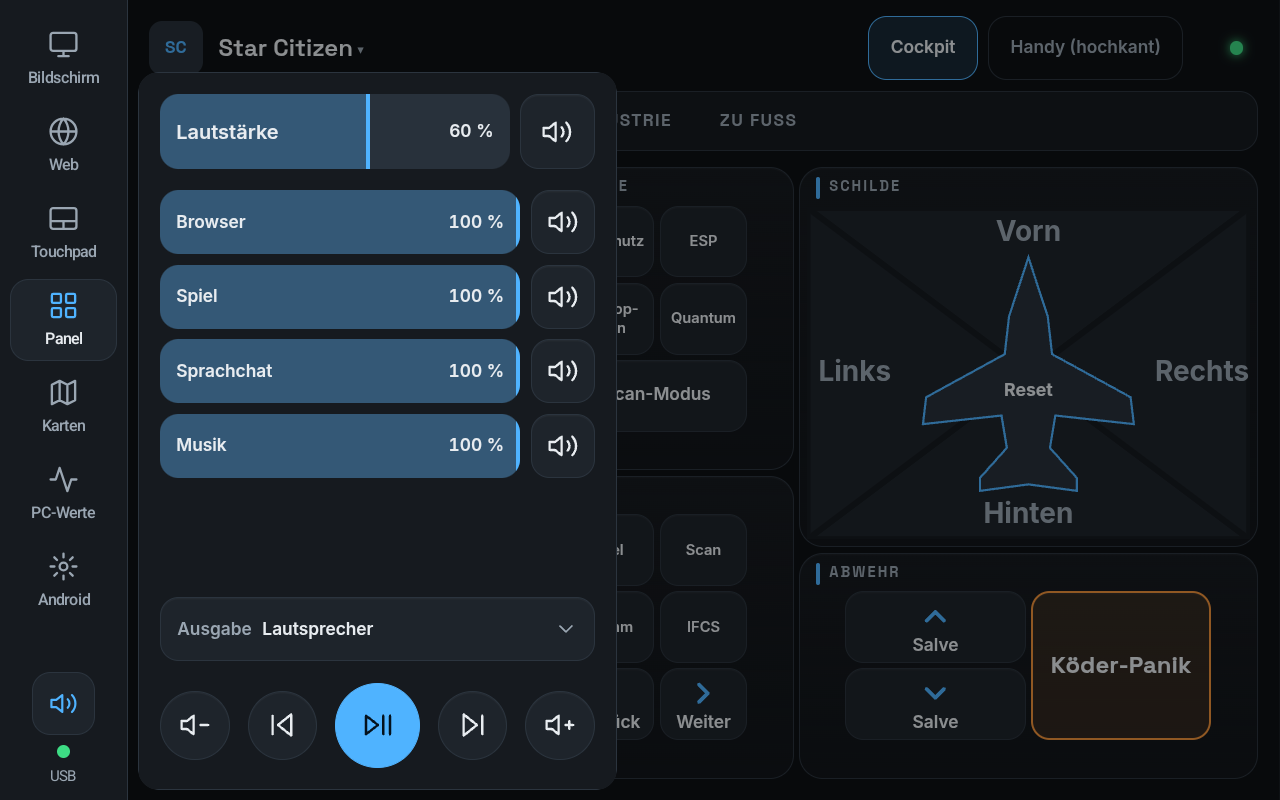
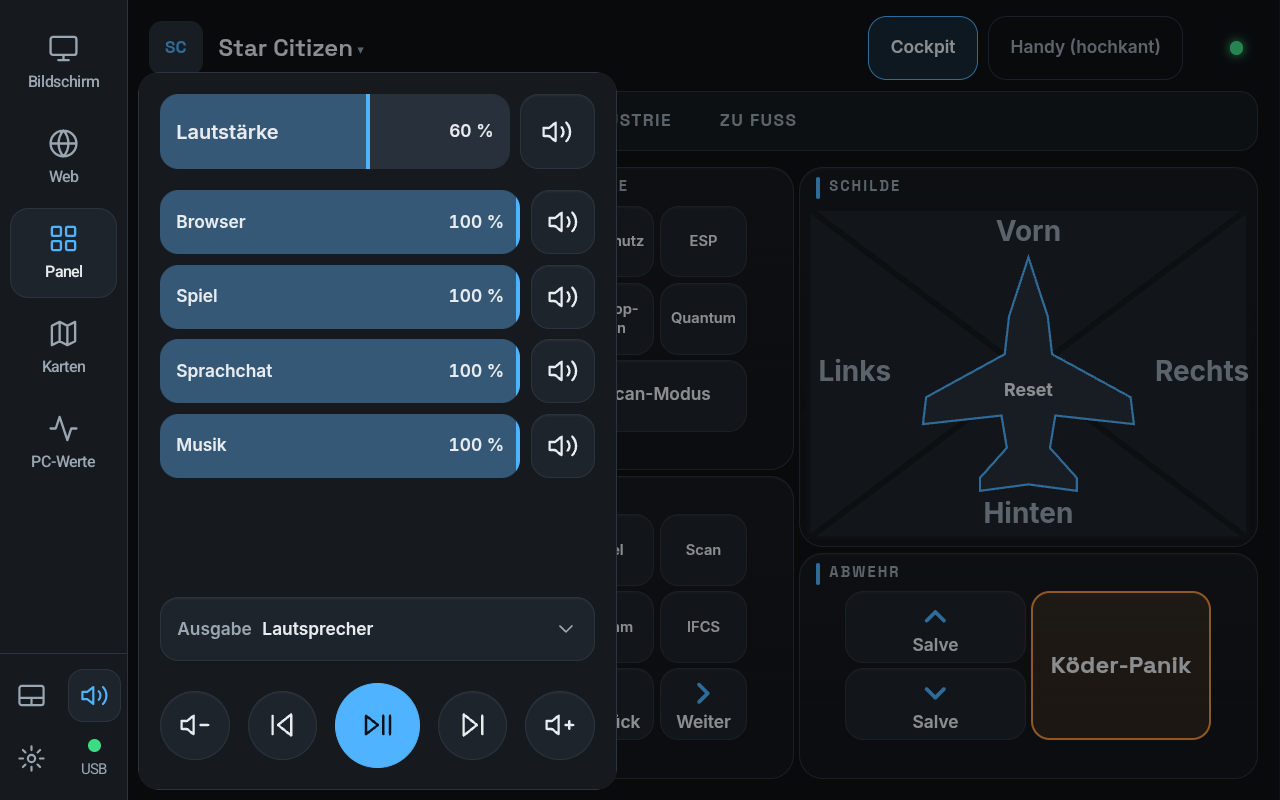
Leiste in zwei Gruppen: Touchpad und Android als kleine Symbole
- launcher.json "small": true: Kachel nur als Symbol unten neben Ton und
  Verbindungsanzeige (2 Spalten zu 48 dp, langes Drücken zeigt den Namen).
- Große Kacheln wieder 68 dp, bei vielen bis 62 dp.
- Hochkant bleibt mit wenigen Kacheln alles groß.

Am Tablet (quer, simuliert hochkant und Handy quer) und am Handy geprüft.

diff --git a/android/src/app/tabletdeck/launcher/HomeActivity.java b/android/src/app/tabletdeck/launcher/HomeActivity.java
@@ -133,7 +133,7 @@ public class HomeActivity extends Activity {
     static class Tile {
         String id, title, type, path, pkg, icon;
         int port;
-        boolean start;
+        boolean start, small;
 
         /**
          * null, wenn ungültig. Web-Kacheln: Port eines Dienstes am PC (Standard Hub) und Pfad, keine
@@ -149,6 +149,7 @@ public class HomeActivity extends Activity {
             t.icon = o.optString("icon", "");
             t.port = o.optInt("port", HUB_PORT);
             t.start = o.optBoolean("start", false);
+            t.small = o.optBoolean("small", false);   // nur Symbol, unten in der Leiste
             if (t.id.isEmpty()) return null;
             if (t.type.equals("web"))
                 return PATH_OK.matcher(t.path).matches() && !t.path.contains("..") && t.port >= 1024
@@ -463,14 +464,12 @@ public class HomeActivity extends Activity {
         if (bottomBar) {
             root.setOrientation(LinearLayout.VERTICAL);
             bar.setOrientation(LinearLayout.HORIZONTAL);
-            bar.setPadding(dp(8), dp(6), dp(8), dp(6));
             root.addView(content, new LinearLayout.LayoutParams(-1, 0, 1f));
             root.addView(railEdge, new LinearLayout.LayoutParams(-1, 1));
             root.addView(bar, new LinearLayout.LayoutParams(-1, dp(76)));
         } else {
             root.setOrientation(LinearLayout.HORIZONTAL);
             bar.setOrientation(LinearLayout.VERTICAL);
-            bar.setPadding(dp(8), dp(14), dp(8), dp(12));
             root.addView(bar, new LinearLayout.LayoutParams(dp(96), -1));
             root.addView(railEdge, new LinearLayout.LayoutParams(1, -1));
             root.addView(content, new LinearLayout.LayoutParams(0, -1, 1f));
@@ -729,11 +728,7 @@ public class HomeActivity extends Activity {
         soundIcon.setImageResource(muted ? R.drawable.ic_volume_off : R.drawable.ic_volume);
         soundIcon.setImageTintList(android.content.res.ColorStateList.valueOf(muted ? BAD : open ? ACCENT : DIM));
         soundButton.setContentDescription("Ton" + (volume < 0 ? "" : muted ? ", stumm" : ", " + volume + " %"));
-        GradientDrawable bg = new GradientDrawable();
-        bg.setColor(open ? S2 : 0);
-        bg.setCornerRadius(dp(14));
-        bg.setStroke(1, LINE);
-        soundButton.setBackground(bg);
+        soundButton.setBackground(open ? activeBg(true) : null);
     }
 
     void removeWebView(String id) {
@@ -837,11 +832,20 @@ public class HomeActivity extends Activity {
         }
     }
 
+    final List<View> tileViews = new ArrayList<>();   // große Kacheln und kleine Symbole, Tag = Kachel-ID
+    static final int SMALL = 48;                      // kleine Symbole (dp): Tippfläche, sichtbar hervorgehoben 40
+
     void buildBar() {
         bar.removeAllViews();
-        // Kacheln scrollbar (viele Kacheln), Verbindungsanzeige bleibt unten bzw. rechts sichtbar
+        tileViews.clear();
+        List<Tile> big = new ArrayList<>(), small = new ArrayList<>();
+        boolean shrink = !bottomBar || !allFitBelow();
+        for (Tile t : tiles) (t.small && shrink ? small : big).add(t);
+
+        // Große Kacheln (scrollbar), darunter bzw. rechts die kleinen Symbole, Ton und Verbindungsanzeige
         railTiles = new LinearLayout(this);
         if (bottomBar) {
+            bar.setPadding(dp(8), dp(6), dp(8), dp(6));
             android.widget.HorizontalScrollView sv = new android.widget.HorizontalScrollView(this);
             sv.setHorizontalScrollBarEnabled(false);
             sv.setFillViewport(true);
@@ -849,54 +853,128 @@ public class HomeActivity extends Activity {
             sv.addView(railTiles, new FrameLayout.LayoutParams(-2, -1));
             bar.addView(sv, new LinearLayout.LayoutParams(0, -1, 1f));
         } else {
+            bar.setPadding(0, dp(14), 0, dp(8));   // unten volle Breite: zwei Symbole zu je 48 dp
             android.widget.ScrollView sv = new android.widget.ScrollView(this);
             sv.setVerticalScrollBarEnabled(false);
             railTiles.setOrientation(LinearLayout.VERTICAL);
+            railTiles.setPadding(dp(8), 0, dp(8), 0);
             sv.addView(railTiles, new FrameLayout.LayoutParams(-1, -2));
             bar.addView(sv, new LinearLayout.LayoutParams(-1, 0, 1f));
         }
-        for (Tile t : tiles) {
-            LinearLayout b = new LinearLayout(this);
-            b.setOrientation(LinearLayout.VERTICAL);
-            b.setGravity(Gravity.CENTER);
-            b.setTag(t.id);
-            b.setContentDescription(t.title);
-            android.widget.ImageView ic = new android.widget.ImageView(this);
-            ic.setImageResource(iconFor(t));
-            b.addView(ic, new LinearLayout.LayoutParams(dp(24), dp(24)));
-            TextView l = new TextView(this);
-            l.setText(t.title);
-            l.setGravity(Gravity.CENTER);
-            l.setSingleLine(true);
-            l.setEllipsize(android.text.TextUtils.TruncateAt.END);
-            l.setTextSize(TypedValue.COMPLEX_UNIT_SP, 12);
-            l.setTypeface(android.graphics.Typeface.create("sans-serif-medium", android.graphics.Typeface.NORMAL));
-            LinearLayout.LayoutParams lp = new LinearLayout.LayoutParams(-1, -2);
-            lp.topMargin = dp(5);
-            b.addView(l, lp);
-            b.setOnClickListener(v -> setMode(t.id));
-            LinearLayout.LayoutParams bp;
-            if (bottomBar) {
-                bp = new LinearLayout.LayoutParams(dp(84), -1);
-                bp.rightMargin = dp(4);
-            } else {
-                bp = new LinearLayout.LayoutParams(-1, dp(62));   // 7 Kacheln + Ton + Anzeige ohne Scrollen
-                bp.bottomMargin = dp(4);
+
+        List<View> tools = new ArrayList<>();
+        for (Tile t : small) tools.add(smallTile(t));
+        // Ton gehört neben das erste Symbol (Touchpad): beides bedient den PC
+        tools.add(Math.min(1, tools.size()), buildSoundButton());
+        View status = buildStatus();
+        int tileH = 68;
+        if (bottomBar) {
+            for (View v : tools) {
+                LinearLayout.LayoutParams lp = new LinearLayout.LayoutParams(dp(SMALL), dp(SMALL));
+                lp.gravity = Gravity.CENTER_VERTICAL;
+                bar.addView(v, lp);
             }
-            railTiles.addView(b, bp);
+            LinearLayout.LayoutParams lp = new LinearLayout.LayoutParams(dp(64), -1);
+            lp.leftMargin = dp(4);
+            bar.addView(status, lp);
+        } else {
+            tools.add(status);
+            View line = new View(this);
+            line.setBackgroundColor(LINE);
+            LinearLayout.LayoutParams dl = new LinearLayout.LayoutParams(-1, 1);
+            dl.topMargin = dp(4);
+            dl.bottomMargin = dp(8);
+            bar.addView(line, dl);
+            LinearLayout row = null;
+            for (int i = 0; i < tools.size(); i++) {
+                if (i % 2 == 0) {
+                    row = new LinearLayout(this);
+                    row.setGravity(Gravity.CENTER_HORIZONTAL);
+                    bar.addView(row, new LinearLayout.LayoutParams(-1, -2));
+                }
+                row.addView(tools.get(i), new LinearLayout.LayoutParams(dp(SMALL), dp(SMALL)));
+            }
+            // Platz für alle großen Kacheln ohne Scrollen: bei vielen etwas niedriger, nie unter 62 dp
+            int rows = (tools.size() + 1) / 2;
+            int free = getResources().getConfiguration().screenHeightDp - 14 - 8 - 13 - rows * SMALL;
+            tileH = Math.max(62, Math.min(68, free / Math.max(1, big.size()) - 4));
         }
-        // Ton: kleiner Knopf statt Kachel, öffnet das Feld über der aktuellen Ansicht
-        FrameLayout sb = new FrameLayout(this);
-        soundIcon = new android.widget.ImageView(this);
-        sb.addView(soundIcon, new FrameLayout.LayoutParams(dp(22), dp(22), Gravity.CENTER));
-        sb.setOnClickListener(v -> toggleSound());
-        soundButton = sb;
-        LinearLayout.LayoutParams sbp = new LinearLayout.LayoutParams(dp(48), dp(48));
-        sbp.gravity = bottomBar ? Gravity.CENTER_VERTICAL : Gravity.CENTER_HORIZONTAL;
-        if (bottomBar) sbp.leftMargin = dp(8);
-        else sbp.topMargin = dp(4);
-        bar.addView(sb, sbp);
+        for (Tile t : big) railTiles.addView(bigTile(t), bigParams(tileH));
+        setStatus(connected);
+        updateBar();
+    }
+
+    /** Hochkant: passen alle Kacheln groß nebeneinander (wenige Kacheln), bleibt alles groß. */
+    boolean allFitBelow() {
+        int w = getResources().getConfiguration().screenWidthDp - 16 - SMALL - 68;
+        return tiles.size() * 88 <= w;
+    }
+
+    LinearLayout bigTile(Tile t) {
+        LinearLayout b = new LinearLayout(this);
+        b.setOrientation(LinearLayout.VERTICAL);
+        b.setGravity(Gravity.CENTER);
+        b.setTag(t.id);
+        b.setContentDescription(t.title);
+        android.widget.ImageView ic = new android.widget.ImageView(this);
+        ic.setImageResource(iconFor(t));
+        b.addView(ic, new LinearLayout.LayoutParams(dp(24), dp(24)));
+        TextView l = new TextView(this);
+        l.setText(t.title);
+        l.setGravity(Gravity.CENTER);
+        l.setSingleLine(true);
+        l.setEllipsize(android.text.TextUtils.TruncateAt.END);
+        l.setTextSize(TypedValue.COMPLEX_UNIT_SP, 12);
+        l.setTypeface(android.graphics.Typeface.create("sans-serif-medium", android.graphics.Typeface.NORMAL));
+        LinearLayout.LayoutParams lp = new LinearLayout.LayoutParams(-1, -2);
+        lp.topMargin = dp(5);
+        b.addView(l, lp);
+        b.setOnClickListener(v -> setMode(t.id));
+        tileViews.add(b);
+        return b;
+    }
+
+    LinearLayout.LayoutParams bigParams(int height) {
+        LinearLayout.LayoutParams p;
+        if (bottomBar) {
+            p = new LinearLayout.LayoutParams(dp(84), -1);
+            p.rightMargin = dp(4);
+        } else {
+            p = new LinearLayout.LayoutParams(-1, dp(height));
+            p.bottomMargin = dp(4);
+        }
+        return p;
+    }
+
+    /** Symbol ohne Beschriftung; langes Drücken zeigt den Namen. */
+    FrameLayout smallButton(String name, View.OnClickListener l) {
+        FrameLayout b = new FrameLayout(this);
+        b.setContentDescription(name);
+        b.setTooltipText(name);
+        b.addView(new android.widget.ImageView(this), new FrameLayout.LayoutParams(dp(22), dp(22), Gravity.CENTER));
+        b.setOnClickListener(l);
+        return b;
+    }
+
+    /** Kachel als kleines Symbol (launcher.json "small": true). */
+    FrameLayout smallTile(Tile t) {
+        FrameLayout b = smallButton(t.title, v -> setMode(t.id));
+        b.setTag(t.id);
+        ((android.widget.ImageView) b.getChildAt(0)).setImageResource(iconFor(t));
+        tileViews.add(b);
+        return b;
+    }
+
+    /** Ton: kleiner Knopf statt Kachel, öffnet das Feld über der aktuellen Ansicht. */
+    View buildSoundButton() {
+        FrameLayout b = smallButton("Ton", v -> toggleSound());
+        soundIcon = (android.widget.ImageView) b.getChildAt(0);
+        soundButton = b;
         updateSound();
+        return b;
+    }
+
+    View buildStatus() {
         LinearLayout st = new LinearLayout(this);
         st.setOrientation(LinearLayout.VERTICAL);
         st.setGravity(Gravity.CENTER);
@@ -906,41 +984,30 @@ public class HomeActivity extends Activity {
         statusText.setTextSize(TypedValue.COMPLEX_UNIT_SP, 11);
         statusText.setTextColor(DIM);
         statusText.setGravity(Gravity.CENTER);
+        statusText.setSingleLine(true);
         LinearLayout.LayoutParams sp = new LinearLayout.LayoutParams(-2, -2);
-        sp.topMargin = dp(6);
+        sp.topMargin = dp(5);
         st.addView(statusText, sp);
-        LinearLayout.LayoutParams stp;
-        if (bottomBar) {
-            stp = new LinearLayout.LayoutParams(dp(64), -1);
-            stp.leftMargin = dp(8);
-        } else {
-            stp = new LinearLayout.LayoutParams(-1, -2);
-            stp.topMargin = dp(8);
-        }
-        bar.addView(st, stp);
-        setStatus(connected);
-        updateBar();
+        return st;
+    }
+
+    /** Hervorhebung der aktiven Kachel; kleine Symbole nur 40 dp groß (Tippfläche bleibt 48). */
+    android.graphics.drawable.Drawable activeBg(boolean small) {
+        GradientDrawable bg = new GradientDrawable();
+        bg.setColor(S2);
+        bg.setCornerRadius(dp(small ? 12 : 14));
+        bg.setStroke(1, LINE);
+        return small ? new android.graphics.drawable.InsetDrawable(bg, dp(4)) : bg;
     }
 
     void updateBar() {
-        if (railTiles == null) return;
-        for (int i = 0; i < railTiles.getChildCount(); i++) {
-            View v = railTiles.getChildAt(i);
-            if (v.getTag() == null) continue;
-            boolean on = v.getTag().equals(mode);
-            int c = on ? ACCENT : DIM;
-            LinearLayout b = (LinearLayout) v;
-            ((android.widget.ImageView) b.getChildAt(0)).setImageTintList(android.content.res.ColorStateList.valueOf(c));
-            ((TextView) b.getChildAt(1)).setTextColor(on ? TEXT : DIM);
-            if (on) {
-                GradientDrawable bg = new GradientDrawable();
-                bg.setColor(S2);
-                bg.setCornerRadius(dp(14));
-                bg.setStroke(1, LINE);
-                v.setBackground(bg);
-            } else {
-                v.setBackground(null);
-            }
+        for (View v : tileViews) {
+            boolean on = v.getTag().equals(mode), small = v instanceof FrameLayout;
+            android.view.ViewGroup b = (android.view.ViewGroup) v;
+            ((android.widget.ImageView) b.getChildAt(0)).setImageTintList(
+                    android.content.res.ColorStateList.valueOf(on ? ACCENT : DIM));
+            if (!small) ((TextView) b.getChildAt(1)).setTextColor(on ? TEXT : DIM);
+            v.setBackground(on ? activeBg(small) : null);
         }
     }
 

diff --git a/docs/guide.md b/docs/guide.md
@@ -24,13 +24,19 @@ Links am Tablet sitzt die Leiste mit den Kacheln (einstellbar in `launcher.json`
 |---|---|
 | **Bildschirm** | Tablet als Zweitbildschirm (spacedesk per USB) |
 | **Web** | Webseiten im Tablet-Browser; Seiten lassen sich vom PC ans Tablet schicken |
-| **Touchpad** | Maus, Text und Tastatur-Kürzel |
 | **Panel** | Spiel-Panel des laufenden Spiels |
 | **Karten** | Spielkarten (Map Genie zuerst, wo vorhanden), siehe [Karten](#9-karten) |
 | **PC-Werte** | CPU, GPU, Speicher, Lüfter, FPS |
-| **Android** | Android-Einstellungen |
 
-Der kleine **Lautsprecher** darunter öffnet das [Ton-Feld](#ton-feld). Der Punkt unten zeigt die Verbindung (**USB** oder **WLAN**). Läuft ein bekanntes Spiel, wechselt das
+Darunter sitzen kleine Symbole (langes Drücken zeigt den Namen):
+
+| Symbol | Wozu |
+|---|---|
+| **Touchpad** | Maus, Text und Tastatur-Kürzel |
+| **Lautsprecher** | öffnet das [Ton-Feld](#ton-feld) |
+| **Zahnrad** | Android-Einstellungen |
+
+Welche Kacheln klein sind, legt `"small": true` in `launcher.json` fest. Der Punkt unten zeigt die Verbindung (**USB** oder **WLAN**). Läuft ein bekanntes Spiel, wechselt das
 Tablet von selbst auf dessen Panel (Spiele und Programmnamen in `games.json`).
 
 ## 2. Spiel-Panels

diff --git a/CHANGELOG.md b/CHANGELOG.md
@@ -10,6 +10,11 @@
 - Regler (Ton und Panel): Beschriftung jetzt gut lesbar (Kontrast über 6:1 statt 1,9:1). Stumm-Knöpfe zeigen den Zustand,
   Abspielen/Pause ist ein gemeinsames Symbol.
 
+### Leiste
+- Zwei Gruppen: oben die Ansichten als Kacheln, unten kleine Symbole für Touchpad, Ton und Android-Einstellungen.
+  Einstellbar je Kachel mit `"small": true` in `launcher.json`; vorhandene Dateien bleiben unverändert (Touchpad und
+  Android dort bei Bedarf ergänzen). Hochkant mit wenigen Kacheln bleibt alles groß.
+
 ### Farbschemas
 - Pro Gerät wählbar (Editor → Einstellungen → Geräte): Fläche (Standard, Schwarz, Hoher Kontrast) und Akzent (Blau,
   Cyan, Violett, Pink, Weiß). Wirkt sofort; alle Kombinationen sind auf Lesbarkeit geprüft. Warn-, Gefahr- und

diff --git a/README.md b/README.md
@@ -56,7 +56,8 @@ Hubs (Origin-Prüfung, CSP) dürfen Eingaben senden.
 
 `launcher.json`: Kacheln des Launchers. `web` mit `path` (optional `port` für einen anderen Dienst am PC,
 z. B. ein Dashboard; die Bridge leitet ihn per adb weiter), `app` mit Paketname, `browser` für
-fremde Webseiten. `"start": true` wählt die Kachel beim Start.
+fremde Webseiten. `"start": true` wählt die Kachel beim Start, `"small": true` zeigt sie nur als
+Symbol unten in der Leiste neben dem Ton-Knopf (hochkant nur, wenn es sonst eng wird).
 Änderungen werden live übernommen.
 
 `games.json`: Spiele mit Programmnamen (`exe`, für die Erkennung), Steam-AppID, Reihenfolge der Panels
